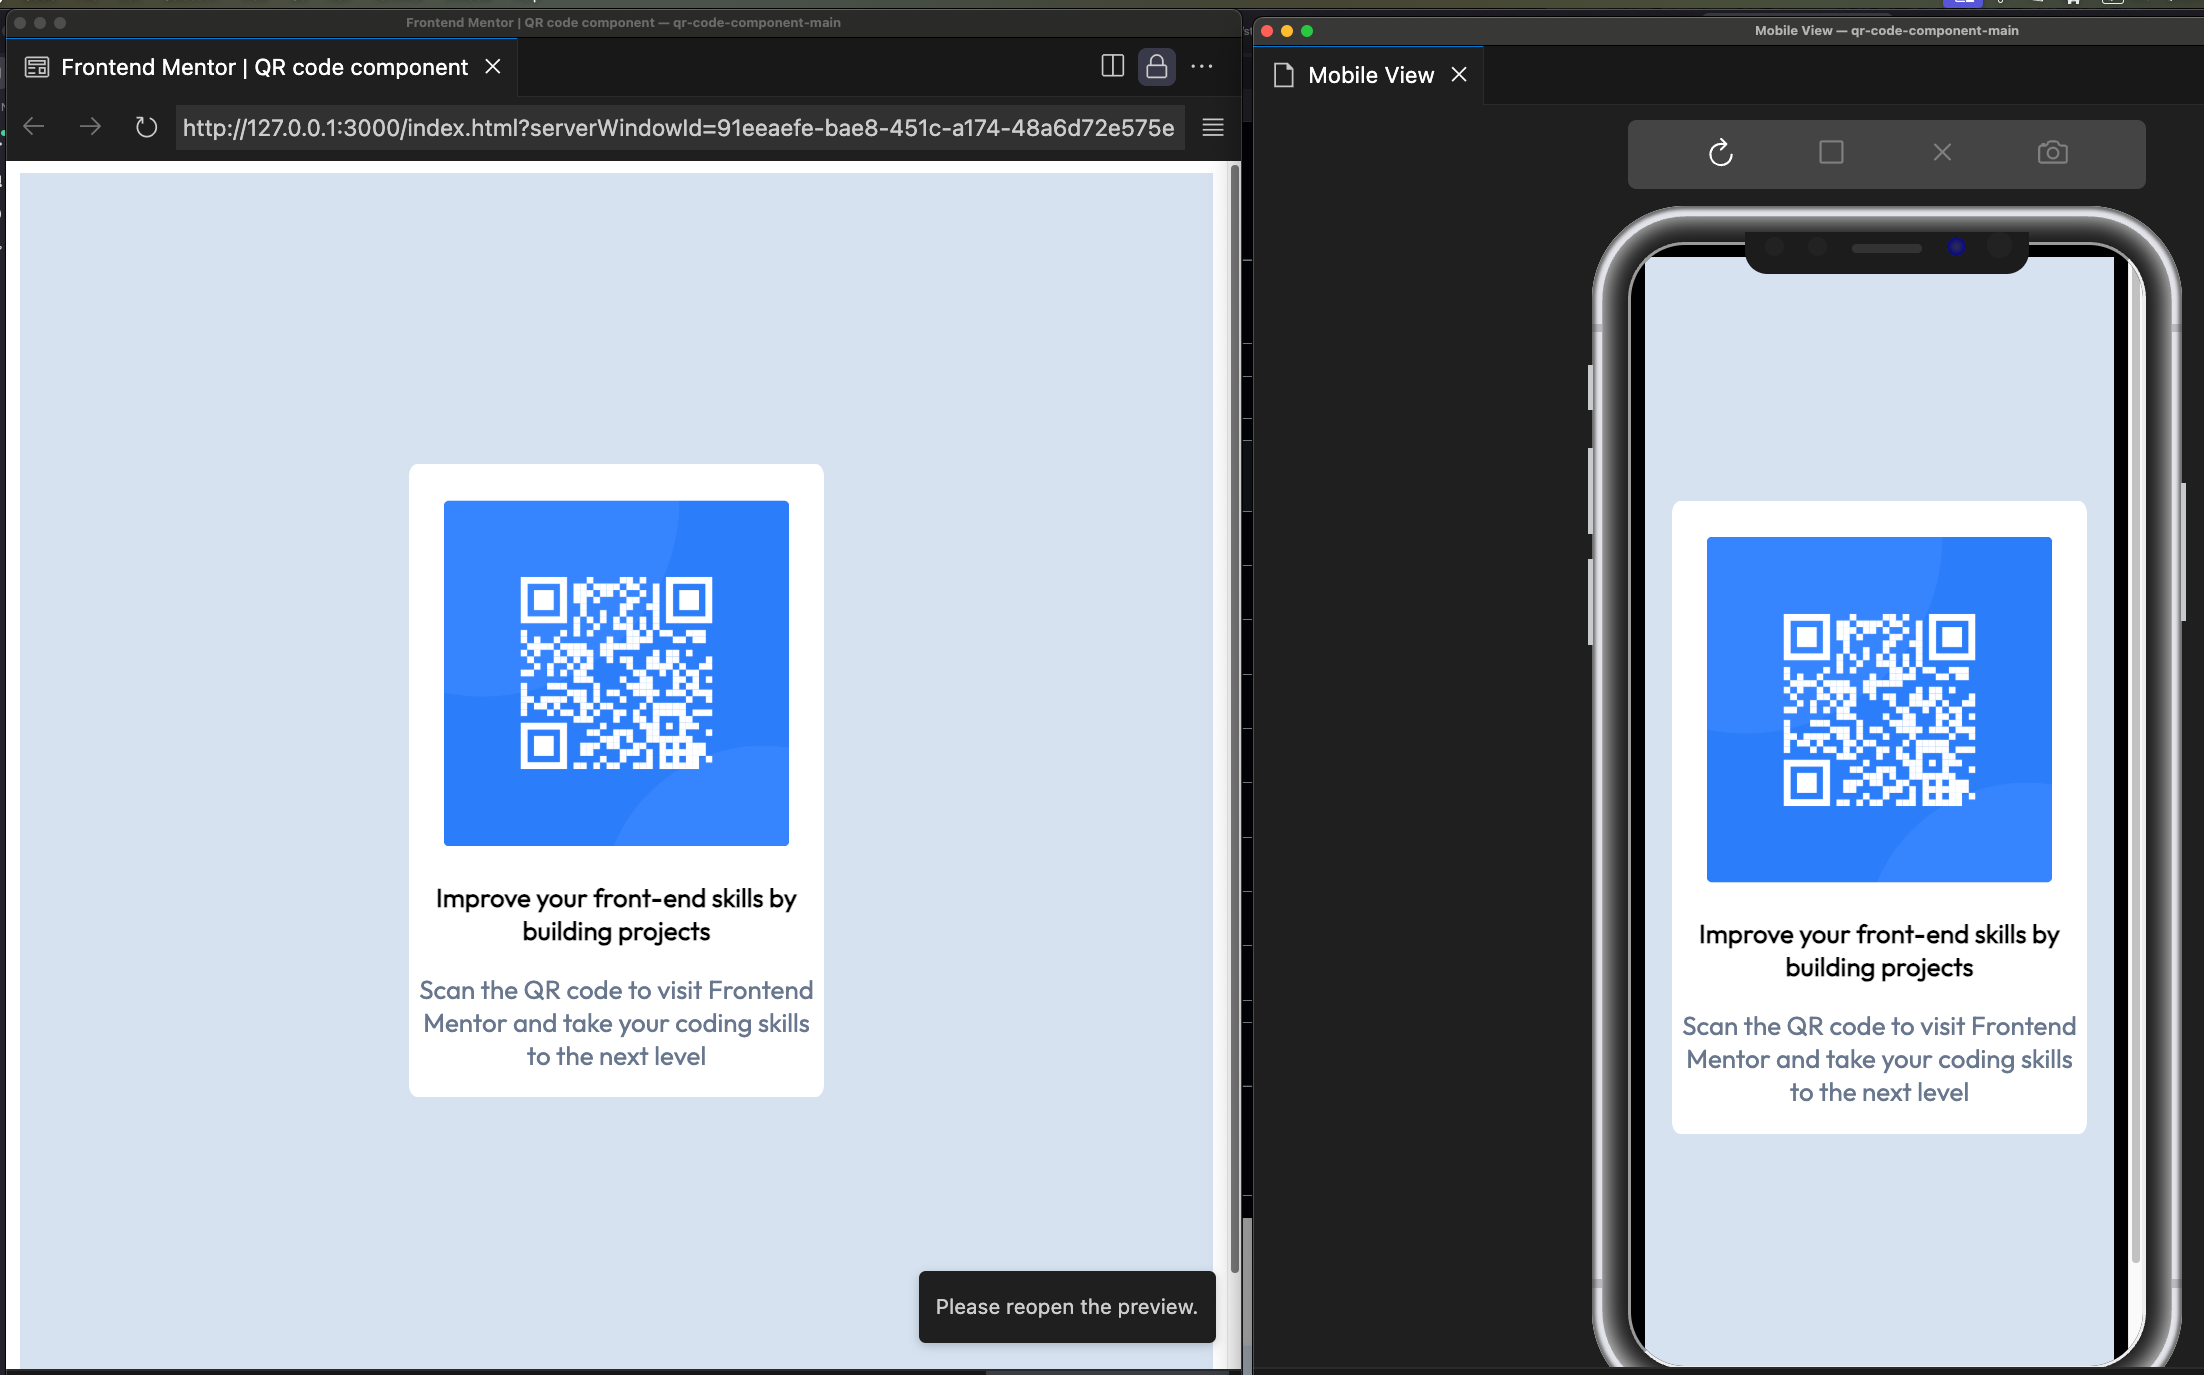
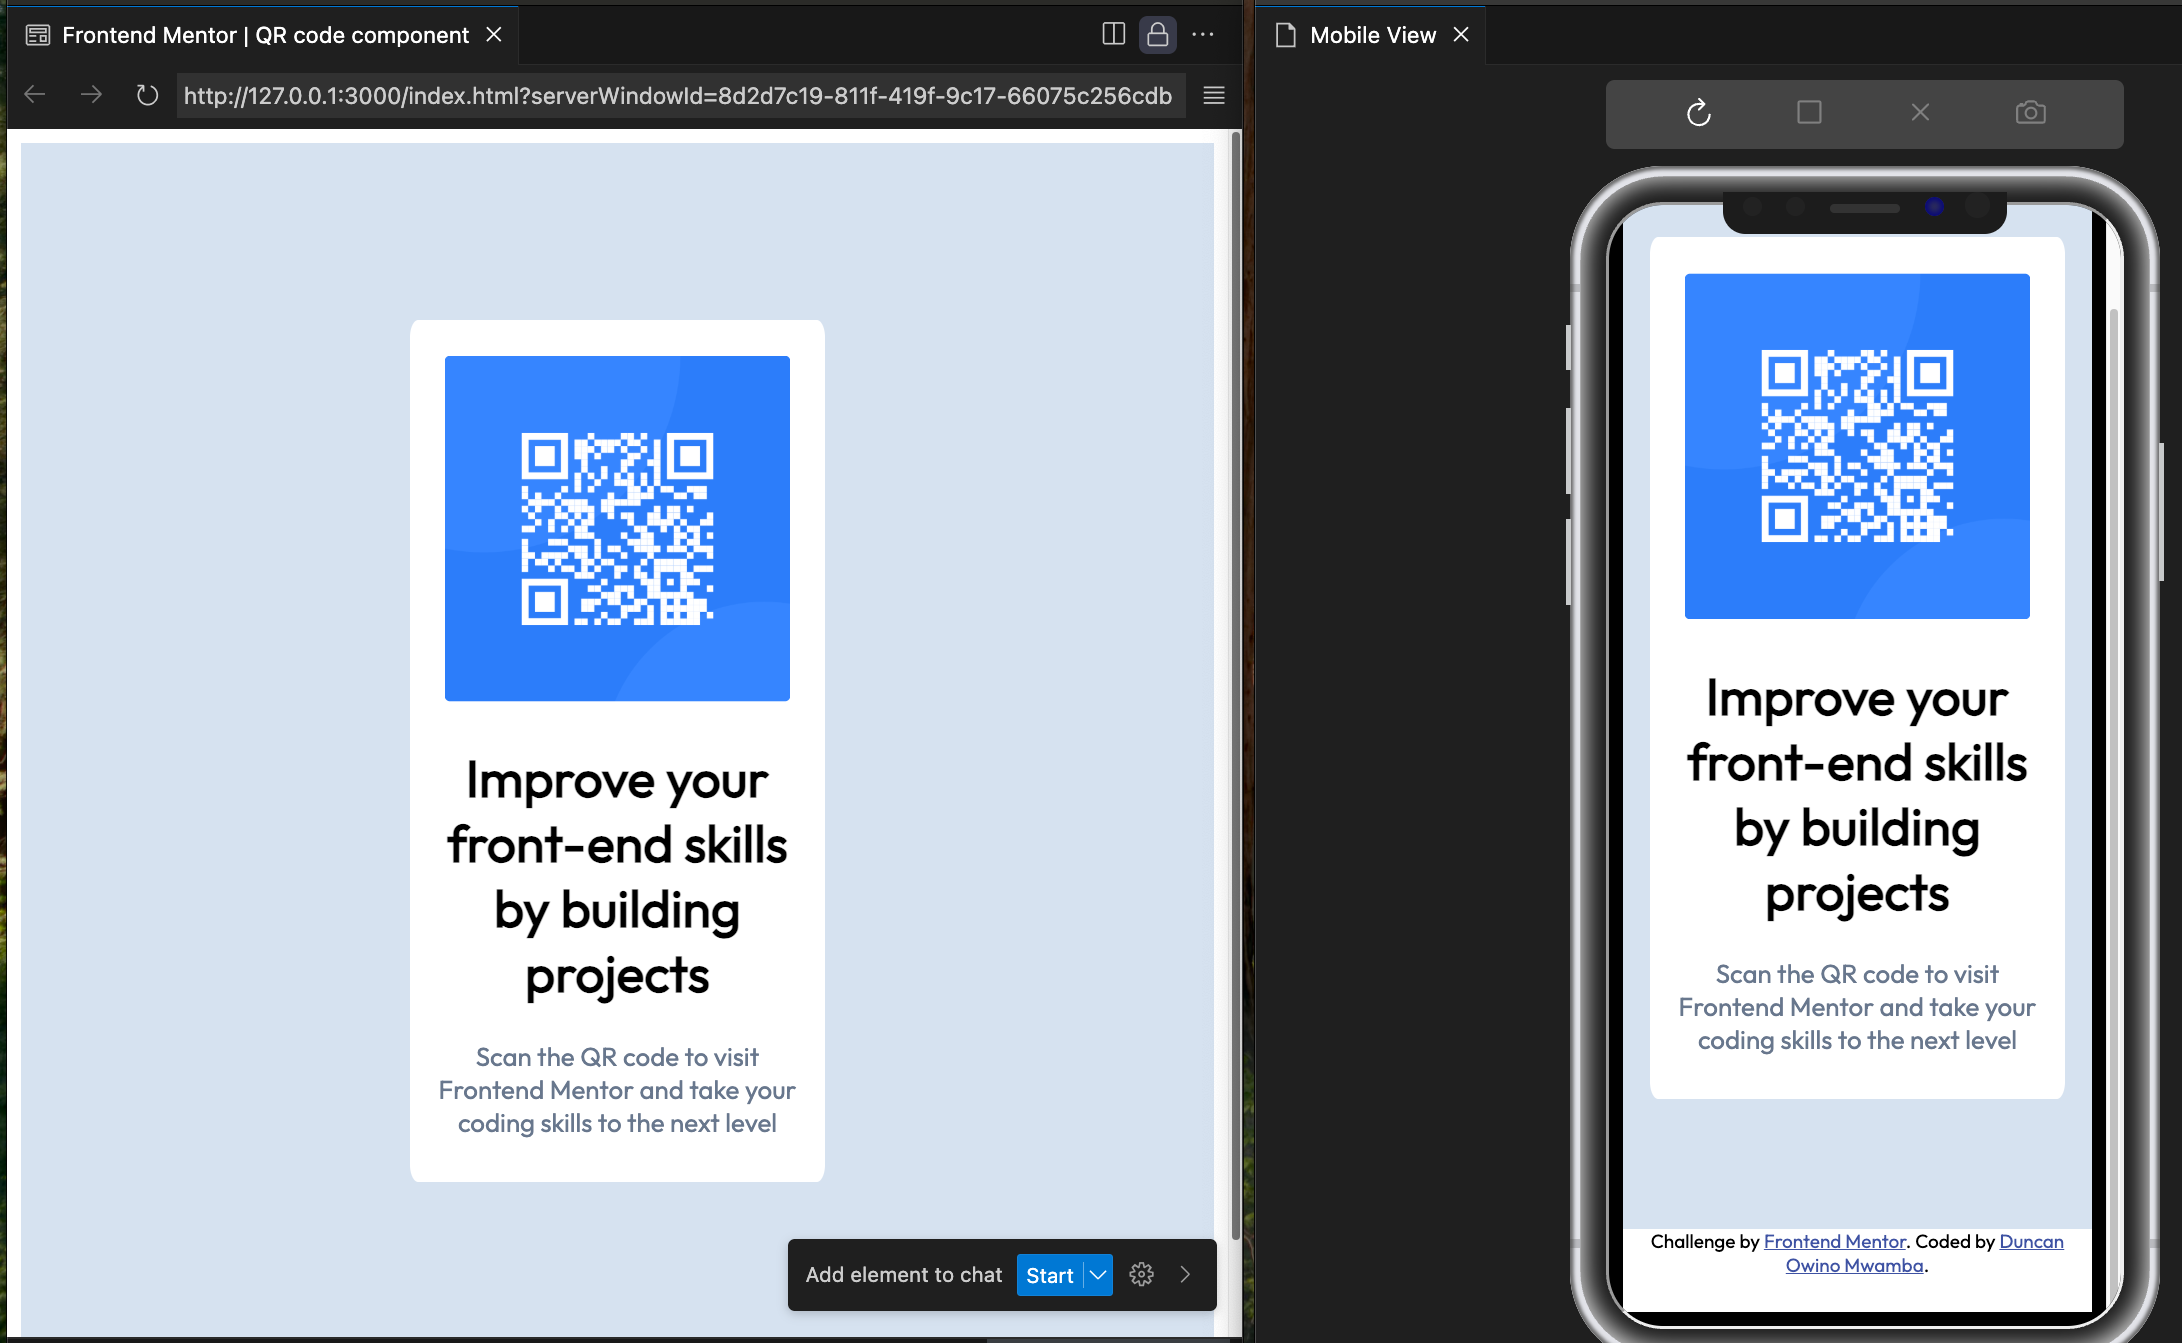
update screenshot

diff --git a/README.md b/README.md
@@ -49,9 +49,9 @@ Below is my code snippet:
     <div class="image-qr-code">
       <img src="images/image-qr-code.png" alt="" width="300" height="300">
 
-      <h3 class="main-statement">
+      <h1 class="main-statement">
       Improve your front-end skills by building projects
-      </h3>
+      </h1>
 
       <p class="instruction">
       Scan the QR code to visit Frontend Mentor and take your coding skills to the next level
